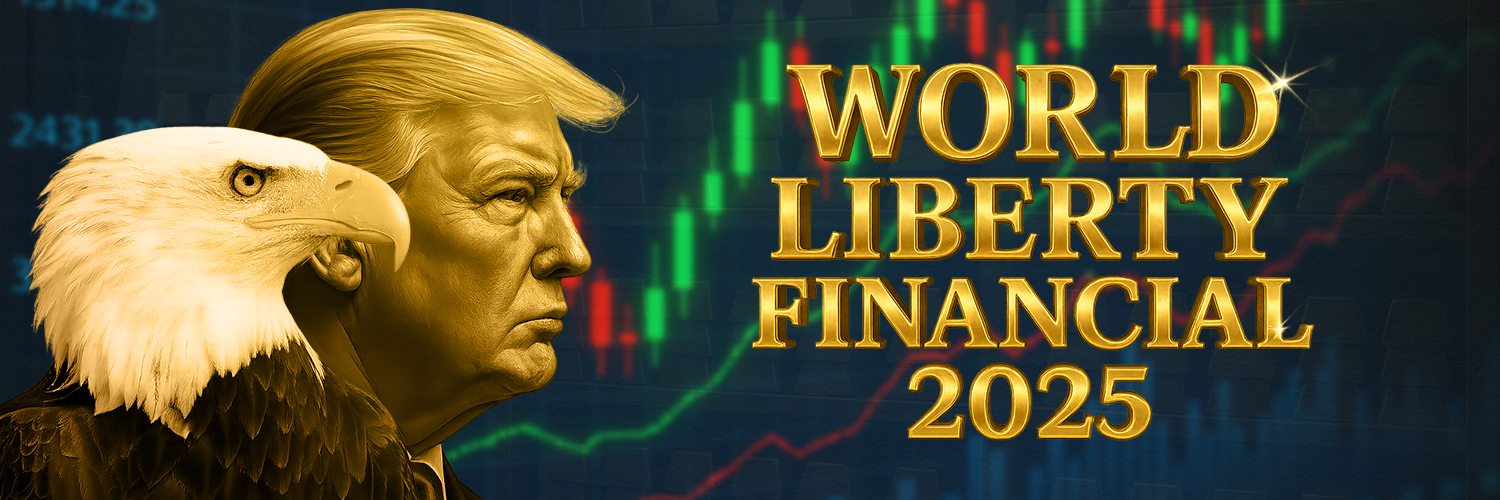
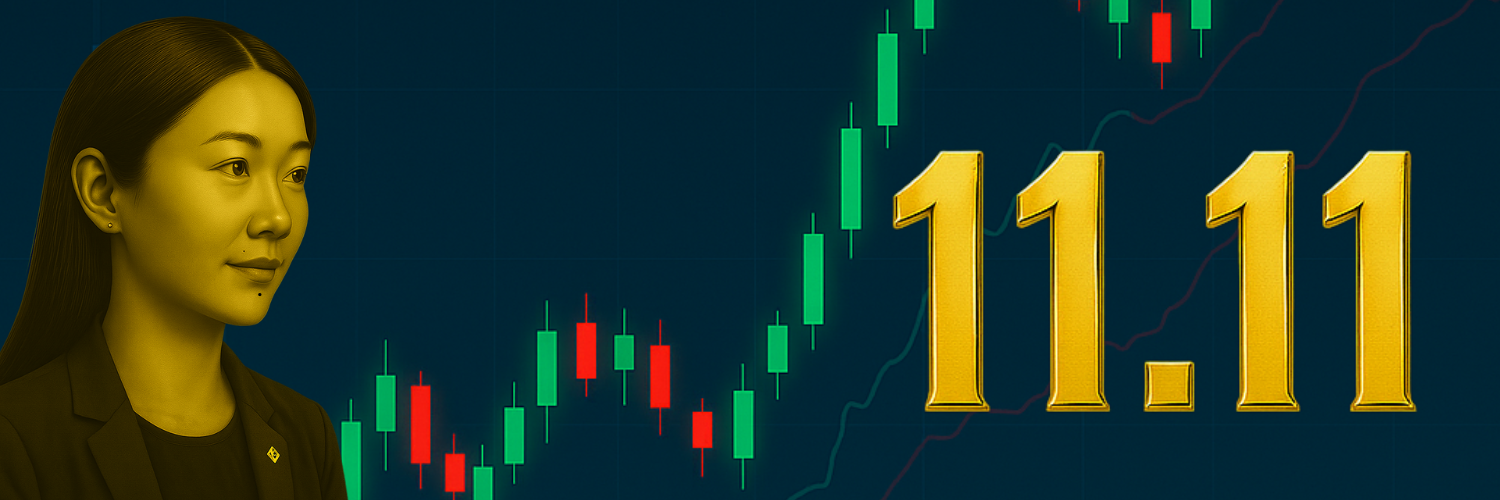
i

diff --git a/index.html b/index.html
@@ -5,7 +5,7 @@
   <meta charset="utf-8" />
   <meta name="viewport" content="width=device-width, initial-scale=1, shrink-to-fit=no" />
   <meta name="google-site-verification" content="" />
-  <title>World Liberty Financial 2025</title>
+  <title>11.11</title>
 
   <link rel="stylesheet" href="assets/css/newstyle.css" />
   <link href="assets/css/aos.css" rel="stylesheet" />
@@ -134,8 +134,8 @@
             <!-- Action Button -->
             <div class="flex justify-end gap-2 ml-8">
               <a class="moon-btn w-full"
-                href="https://www.dextools.io/">CHART</a>
-              <a class="moon-btn w-full" href="https://uniswap.org/">BUY
+                href="https://www.dextools.io/app/en/bnb/pair-explorer/0xcomingsoon">CHART</a>
+              <a class="moon-btn w-full" href="https://pancakeswap.finance/swap?outputCurrency=0xcomingsoon">BUY
                 NOW</a>
             </div>
           </div>
@@ -149,8 +149,8 @@
 
             <!-- Action Button -->
             <div class="ml-auto flex gap-3 justify-end items-center">
-              <a class="moon-btn w-full" href="https://www.dextools.io/">CHART</a>
-              <a class="moon-btn w-full" href="https://uniswap.org/">BUY
+              <a class="moon-btn w-full" href="https://www.dextools.io/app/en/bnb/pair-explorer/0xcomingsoon">CHART</a>
+              <a class="moon-btn w-full" href="https://pancakeswap.finance/swap?outputCurrency=0xcomingsoon">BUY
                 NOW</a>
 
               <!-- Offcanvas Toggle -->
@@ -225,7 +225,7 @@
               </div>
               <div class="uppercase font-extrabold text-4xl sm:text-5xl 2xl:text-[110px] text-primary leading-tight"
                 data-aos="fade-up" data-aos-duration="1000" data-aos-delay="300">
-                World Liberty Financial
+                11.11
               </div>
               <!-- class="uppercase font-thin text-[68px] sm:text-[134px] 2xl:text-[164px] sm:-ml-3 2xl:-ml-4 leading-none" -->
               <div
@@ -250,15 +250,15 @@
               <div class="inline-flex flex-col sm:flex-row 2xl:items-center gap-10 2xl:gap-36 mt-7" data-aos="fade-in"
                 data-aos-duration="1000" data-aos-delay="1500">
                 <div class="flex justify-center sm:justify-start flex-wrap gap-4">
-                  <a href="https://uniswap.org/" target="_blank"
+                  <a href="https://pancakeswap.finance/swap?outputCurrency=0xcomingsoon" target="_blank"
                     class="moon-btn px-8 text-white">Buy NOW</a>
-                  <a href="https://www.dextools.io/" target="_blank" class="moon-btn px-8 text-white">Dextools</a>
+                  <a href="https://www.dextools.io/app/en/bnb/pair-explorer/0xcomingsoon" target="_blank" class="moon-btn px-8 text-white">Dextools</a>
                   <a class="moon-btn px-8 text-white" target="_blank"
-                    href="https://dexscreener.com/">Dexscreener</a>
+                    href="https://dexscreener.com/bsc/0xcomingsoon">Dexscreener</a>
                 </div>
                 <div
                   class="flex items-center justify-center sm:justify-start gap-4 hover:child-a:text-primary hover:child-a:scale-125 child-a:transition child-a:duration-200">
-                  <a href="https://t.me/" target="_blank">
+                  <a href="https://t.me/yihe1111_bnb" target="_blank">
                     <svg stroke="currentColor" fill="currentColor" stroke-width="0" viewBox="0 0 512 512"
                       class="h-6 w-6" height="1em" width="1em" xmlns="http://www.w3.org/2000/svg">
                       <path
@@ -266,7 +266,7 @@
                       </path>
                     </svg>
                   </a>
-                  <a href="https://x.com/" target="_blank">
+                  <a href="https://x.com/yihe1111_bnb" target="_blank">
                     <svg stroke="currentColor" fill="currentColor" stroke-width="0" viewBox="0 0 512 512" height="2em"
                       width="2em" xmlns="http://www.w3.org/2000/svg">
                       <path
@@ -297,7 +297,7 @@
         <div class="container">
           <div class="mb-16 relative text-center">
             <div class="font-medium text-lg leading-tight mb-4 text-primary">
-              <div data-aos="fade-up" data-aos-duration="400">About World Liberty Financial 2025</div>
+              <div data-aos="fade-up" data-aos-duration="400">About 11.11</div>
               <span class="block w-60 h-px bg-white mx-auto relative mt-6 mb-10" data-aos="fade-in"
                 data-aos-duration="400" data-aos-delay="250">
                 <span
@@ -306,7 +306,7 @@
             </div>
             <div class="block w-full text-3xl sm:text-4xl uppercase font-heading font-bold mb-4" data-aos="fade-up"
               data-aos-duration="400" data-aos-delay="300">
-              World Liberty Financial 2025
+              11.11
             </div>
             <img src="/Banner_1500x500_1.png" style="width: 100%; border-radius: 8px; " alt="">
           </div>
@@ -315,9 +315,7 @@
         <!-- About Text -->
         <div id="about" class="container -mt-4" data-aos="fade-in" data-aos-duration="400" data-aos-delay="350">
           <div class="font-medium sm:text-xl text-center sm:w-10/12 lg:w-6/12 mx-auto">
-            World Liberty Financial 2025 ($WLFI2025) is a Trump-backed crypto project launched in September 2025, 
-            built on USD1 stablecoin and WLFI governance token. Listed on major exchanges with billions in circulation, 
-            it’s one of the year’s most talked-about launches, praised for its scale, but criticized for insider control.
+            $11.11 is a symbol of alignment, luck, and prosperity — born on the Binance Smart Chain to capture the power of timing and belief. Every holder becomes part of a synchronized movement toward abundance and community-driven growth.
           </div>
         </div>
 
@@ -335,7 +333,7 @@
               </div>
               <div class="moon-btn w-full py-3 sm:py-5 text-white" data-smart-code-btn="1">
                 <span class="overflow-hidden whitespace-nowrap" data-smart-code="1">
-                  0x19d1f760e570c581a9da26bcf9b2257d691484fb
+                  0xcomingsoon
                 </span>
                 <span class="text-white">
                   <svg stroke="currentColor" fill="currentColor" stroke-width="0" viewBox="0 0 24 24" height="2em"
@@ -428,7 +426,7 @@
               class=" mobile-switch flex flex-wrap items-center gap-5 sm:gap-5 border-l-[12px] bg-[#2b2b2b] border-[#89F97D] px-8 py-3 rounded"
               data-aos="fade-left" data-aos-duration="400" data-aos-delay="200">
               <div class="h-14  flex items-center text-4xl font-semibold text-[#89F97D]">
-                $WLFI2025
+                $11.11
               </div>
               <span class="text-base sm:text-xl font-medium" style="margin-left: 22px;">: Ticker </span>
             </div>
@@ -475,11 +473,11 @@
               </div>
               <div class="block w-full text-3xl sm:text-4xl uppercase font-heading font-bold mb-4 leading-snug"
                 data-aos="fade-up" data-aos-duration="500" data-aos-delay="500">
-                $WLFI2025 LIVE CHART
+                $11.11 LIVE CHART
               </div>
             </div>
                       
-<style>#dexscreener-embed{position:relative;width:100%;padding-bottom:125%;}@media(min-width:1400px){#dexscreener-embed{padding-bottom:65%;}}#dexscreener-embed iframe{position:absolute;width:100%;height:100%;top:0;left:0;border:0;}</style><div id="dexscreener-embed"><iframe src="https://dexscreener.com/ethereum/0x03aEC923075cA2DCB4C247161cC064e56d46CA41?embed=1&loadChartSettings=0&chartLeftToolbar=0&chartTheme=dark&theme=dark&chartStyle=0&chartType=usd&interval=15"></iframe></div>
+<style>#dexscreener-embed{position:relative;width:100%;padding-bottom:125%;}@media(min-width:1400px){#dexscreener-embed{padding-bottom:65%;}}#dexscreener-embed iframe{position:absolute;width:100%;height:100%;top:0;left:0;border:0;}</style><div id="dexscreener-embed"><iframe src="https://dexscreener.com/bsc/0xcomingsoonethereum/0x03aEC923075cA2DCB4C247161cC064e56d46CA41?embed=1&loadChartSettings=0&chartLeftToolbar=0&chartTheme=dark&theme=dark&chartStyle=0&chartType=usd&interval=15"></iframe></div>
           </div>
 
           <!-- Timeline Road x Setps-->
@@ -525,7 +523,7 @@
                     ></path>
                   </svg>
                 </a> -->
-                <a href="https://t.me/WLFI2025_Erc" target="_blank">
+                <a href="https://t.me/yihe1111_bnb" target="_blank">
                   <svg stroke="currentColor" fill="currentColor" stroke-width="0" viewBox="0 0 512 512" height="1em"
                     width="1em" xmlns="http://www.w3.org/2000/svg">
                     <path
@@ -533,7 +531,7 @@
                     </path>
                   </svg>
                 </a>
-                <a href="https://x.com/WLFI2025_Erc" target="_blank">
+                <a href="https://x.com/yihe1111_bnb" target="_blank">
                   <svg stroke="currentColor" fill="currentColor" stroke-width="0" viewBox="0 0 512 512" height="1em"
                     width="1em" xmlns="http://www.w3.org/2000/svg">
                     <path
@@ -558,7 +556,7 @@
             <div class="mx-auto mb-4">
               <!-- Logo -->
               <a class="w-40 h-auto block" href="index.html">
-                <span style="color: #ebb42e;">World Liberty Financial 2025</span>
+                <span style="color: #ebb42e;">11.11</span>
               </a>
             </div>
             <!-- Menu List -->
@@ -586,7 +584,7 @@
         </div>
         <div class="pb-16">
           <div class="text-center text-primary font-extralight">
-            &copy; World Liberty Financial 2025. <a href="mailto:contact@worldlibertyfinancial.com">All rights reserved</a>
+            &copy; 11.11. <a href="mailto:contact@worldlibertyfinancial.com">All rights reserved</a>
           </div>
         </div>
       </div>
